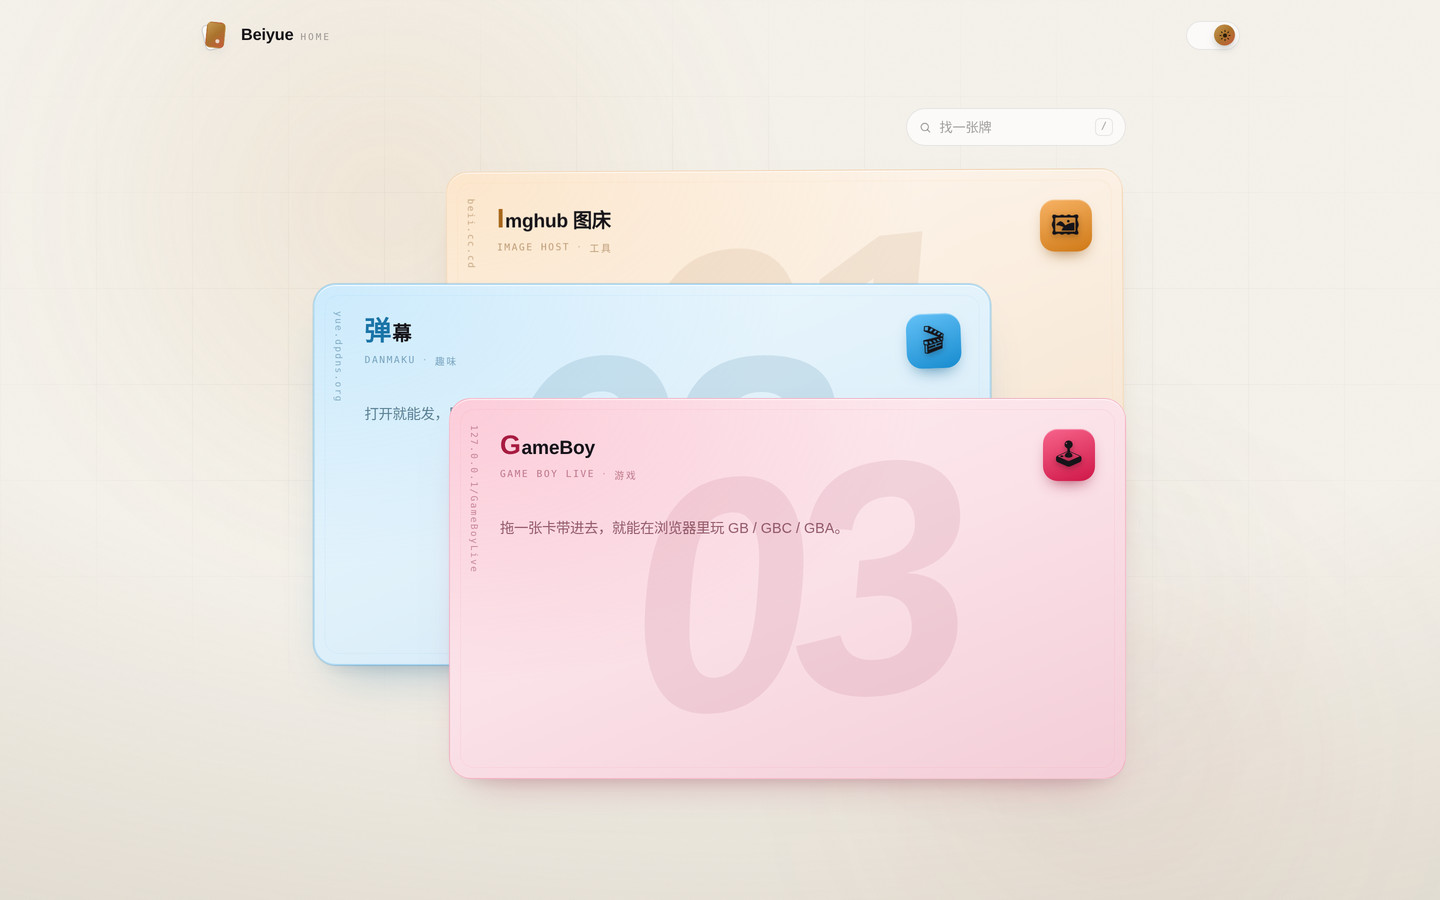
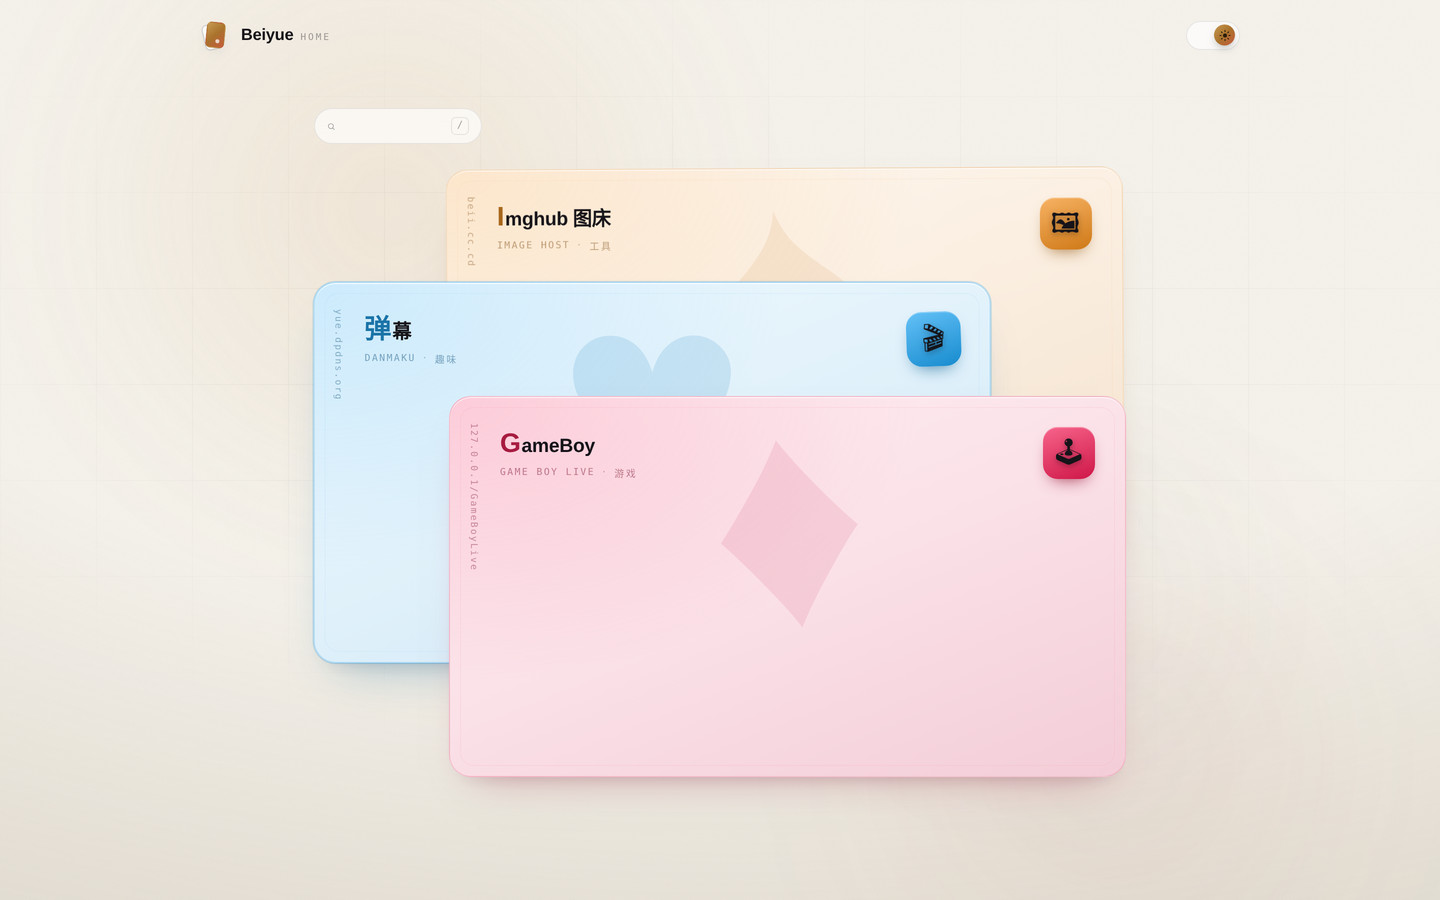
feat: suit motifs instead of numbers, drop desc, compact search

diff --git a/src/styles/card.css b/src/styles/card.css
@@ -101,27 +101,24 @@
   transition: border-color 380ms var(--ease-out);
 }
 
-/* 牌心的大号序号：像扑克牌正中的花色，居中铺满，
-   被上方牌压住也无所谓，整张露出时才是视觉重心 */
-.card__series {
+/* 牌心的大号花色：像扑克牌正中的那枚图案，居中铺满 */
+.card__motif {
   position: absolute;
   inset: 0;
   display: grid;
   place-items: center;
-  font-family: var(--font-sans);
-  font-size: clamp(170px, 27vw, 330px);
-  font-weight: 700;
-  font-style: italic;
-  line-height: 0.8;
-  letter-spacing: -0.07em;
-  color: hsl(var(--hue) 90% 86% / 0.07);
+  font-size: clamp(180px, 26vw, 310px);
+  font-weight: 400;
+  line-height: 1;
+  color: hsl(var(--hue) 95% 82% / 0.085);
   pointer-events: none;
   user-select: none;
-  transform: rotate(-6deg);
-  transition: color 420ms var(--ease-out), transform 620ms var(--ease-spring);
+  /* 字形的视觉重心比行盒低，按字号往上提一点才真正居中 */
+  transform: translateY(-0.22em) rotate(-8deg);
+  transition: color 380ms var(--ease-out), transform 520ms var(--ease-spring);
 }
-:root[data-theme='light'] .card__series {
-  color: hsl(var(--hue) 62% 34% / 0.09);
+:root[data-theme='light'] .card__motif {
+  color: hsl(var(--hue) 70% 45% / 0.1);
 }
 
 /* 信息区横贯牌顶：名称靠左，图标靠右，叠放时这一整行必须看清 */
@@ -224,28 +221,6 @@
   text-shadow: 0 1px 3px rgba(0, 0, 0, 0.35);
 }
 
-/* 一句话简介：被压住时看不见，整张露出时才读到 */
-.card__desc {
-  position: absolute;
-  /* 落在露出带之下：折叠时整段被压住，不会露出半行字 */
-  top: 118px;
-  left: 44px;
-  right: 30px;
-  z-index: 2;
-  max-width: 44ch;
-  font-size: 0.86rem;
-  line-height: 1.6;
-  color: hsl(var(--hue) 60% 90% / 0.68);
-  display: -webkit-box;
-  -webkit-line-clamp: 2;
-  line-clamp: 2;
-  -webkit-box-orient: vertical;
-  overflow: hidden;
-}
-:root[data-theme='light'] .card__desc {
-  color: hsl(var(--hue) 40% 32% / 0.74);
-}
-
 /* 左缘竖排地址：像防伪码一样沿边缘排布，超出卡面自然渐隐 */
 .card__spine {
   position: absolute;
@@ -305,12 +280,6 @@
     font-size: 0.6rem;
   }
 
-  .card__desc {
-    left: 50px;
-    right: 34px;
-    font-size: 0.9rem;
-  }
-
   .card__spine {
     top: 26px;
     left: 18px;
@@ -341,9 +310,9 @@
     transform: scale(1.05) rotate(-2deg);
   }
 
-  .card:hover .card__series {
-    color: hsl(var(--hue) 90% 86% / 0.11);
-    transform: rotate(0deg) scale(1.02);
+  .card:hover .card__motif {
+    color: hsl(var(--hue) 95% 84% / 0.14);
+    transform: translateY(-0.22em) rotate(0deg) scale(1.03);
   }
 
   :root[data-theme='light'] .card:hover .card__face {
@@ -351,8 +320,8 @@
       0 12px 22px -16px rgba(20, 20, 32, 0.22), 0 0 0 1px hsl(var(--hue) 70% 60% / 0.35),
       inset 0 1px 0 rgba(255, 255, 255, 0.85);
   }
-  :root[data-theme='light'] .card:hover .card__series {
-    color: hsl(var(--hue) 62% 34% / 0.13);
+  :root[data-theme='light'] .card:hover .card__motif {
+    color: hsl(var(--hue) 70% 45% / 0.15);
   }
 
   .card:active .card__face {
@@ -404,7 +373,7 @@
 @media (prefers-reduced-motion: reduce) {
   .card__face,
   .card__icon,
-  .card__series,
+  .card__motif,
   .card__face::before {
     animation: none !important;
     transition: none !important;

diff --git a/src/components/DeckCard.vue b/src/components/DeckCard.vue
@@ -10,6 +10,13 @@ const props = defineProps({
 
 const iconOk = ref(true)
 
+/**
+ * 牌心的花色，按顺序轮转。选字标准：BMP 内、各平台覆盖率高的符号，
+ * 避开 ❋ ❈ ✹ 这类在 Windows 上会掉成豆腐块的低频字符。
+ */
+const MOTIFS = ['♠', '♥', '♦', '♣', '★', '✦', '❖', '✧', '✿', '❀', '☘', '☾']
+const motif = computed(() => MOTIFS[props.index % MOTIFS.length])
+
 const showIcon = computed(() => Boolean(props.app.icon) && iconOk.value)
 const showEmoji = computed(() => !showIcon.value && Boolean(props.app.emoji))
 const initial = computed(() => props.app.name.slice(0, 1))
@@ -48,8 +55,8 @@ const style = computed(() => {
     <span class="card__face">
       <span class="card__frame" aria-hidden="true" />
 
-      <!-- 牌心的大号序号，被压住也不影响角落那一条 -->
-      <span class="card__series" aria-hidden="true">{{ String(index + 1).padStart(2, '0') }}</span>
+      <!-- 牌心的大号花色，被上方牌压住也无所谓 -->
+      <span class="card__motif" aria-hidden="true">{{ motif }}</span>
 
       <!-- 名称在左上、图标在右上：叠起来时唯一必须看清的一整行 -->
       <span class="card__corner">
@@ -76,8 +83,6 @@ const style = computed(() => {
           <span v-else class="card__initial">{{ initial }}</span>
         </span>
       </span>
-
-      <span v-if="app.desc" class="card__desc">{{ app.desc }}</span>
 
       <!-- 左缘竖排地址：牌向左抽出时，这一条始终在视野里 -->
       <span class="card__spine" aria-hidden="true">{{ address }}</span>

diff --git a/src/components/DeckIntro.vue b/src/components/DeckIntro.vue
@@ -31,7 +31,6 @@ defineExpose({ focus: () => input.value?.focus() })
         ref="input"
         type="search"
         :value="props.modelValue"
-        placeholder="找一张牌"
         autocomplete="off"
         spellcheck="false"
         @input="emit('update:modelValue', $event.target.value)"
@@ -52,11 +51,11 @@ defineExpose({ focus: () => input.value?.focus() })
 <style scoped>
 .bar {
   display: flex;
-  justify-content: flex-end;
+  justify-content: flex-start;
   width: 100%;
   max-width: 860px;
   margin-inline: auto;
-  /* 与 deck-root 完全一致的内边距，搜索框右缘正好对齐卡片右缘 */
+  /* 与 deck-root 完全一致的内边距，搜索框左缘与容器对齐 */
   padding: 0 clamp(16px, 4vw, 32px) clamp(16px, 2.2vw, 24px);
 }
 
@@ -65,8 +64,8 @@ defineExpose({ focus: () => input.value?.focus() })
   display: flex;
   align-items: center;
   gap: 8px;
-  width: 220px;
-  height: 38px;
+  width: 168px;
+  height: 36px;
   padding-inline: 12px;
   border-radius: var(--radius-pill);
   border: 1px solid var(--line);
@@ -133,11 +132,8 @@ defineExpose({ focus: () => input.value?.focus() })
 }
 
 @media (max-width: 719.98px) {
-  .bar {
-    justify-content: stretch;
-  }
   .search {
-    width: 100%;
+    width: 156px;
   }
 }
 </style>
